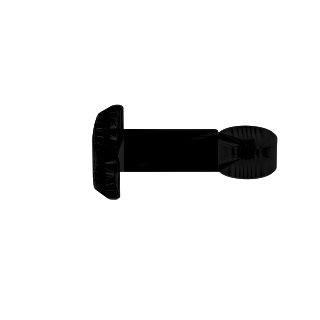
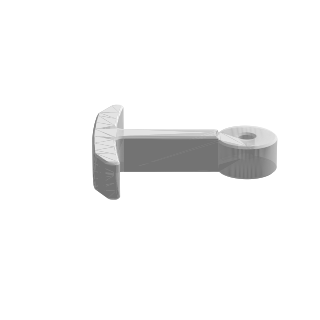
Part-detail fixes: modal scroll, support UI, OnShape links, hammer render
- Modal: pin the 3D viewer and give the detail pane its own scroll region
  (the canvas owns wheel=zoom, which was swallowing the modal's scroll).
  Adds a `bodyScroll` prop to Modal; trims StlViewer to 48vh.
- Support UI: only show the include/exclude toggle (and count support in
  the totals) for parts that intentionally opt into support in the manifest.
  Parts the slicer auto-forces support on no longer show it or factor it in.
  New `support_intentional` flag emitted by the generator.
- OnShape: link the two rib variants, the upper fixed section, and its big
  spacer to the pinned OnShape version. normalize_versions now carries a
  part-level onshape_version onto single-version parts.
- Re-render limit-switch-hammer thumbnail (was stale/black; role resolves to
  ivory-white).

Changed region(s): [[0.2812, 0.3125, 0.875, 0.625]]

diff --git a/src/routes/+page.svelte b/src/routes/+page.svelte
@@ -45,8 +45,11 @@
 	const defaultRoleColors = () => Object.fromEntries(COLOR_ROLES.map((r) => [r.id, r.default]));
 	const defaultSelected = () =>
 		Object.fromEntries(PARTS.map((p) => [p.id, !('bins' in p.quantities)]));
+	// only parts that *opt into* support (support_intentional) expose the toggle; they
+	// default to counting their support. Parts the slicer auto-forced support on are
+	// left out entirely — no toggle, no support in the totals.
 	const defaultInclSupport = () =>
-		Object.fromEntries(PARTS.filter((p) => p.support_grams > 0).map((p) => [p.id, p.id === 'stator']));
+		Object.fromEntries(PARTS.filter((p) => p.support_intentional).map((p) => [p.id, true]));
 
 	// per-layer size list is the shared source of truth (also used by the framing tab)
 	const funnelSizes = $derived(layerStore.sizes);
@@ -70,6 +73,8 @@
 	}
 	// include each part's support material in totals — default on for the stator only
 	let inclSupport = $state<Record<string, boolean>>(defaultInclSupport());
+	// support counts only for parts that intentionally opt into it, never auto-forced ones
+	const supportOn = (id: string): boolean => !!partsById.get(id)?.support_intentional && !!inclSupport[id];
 
 	// ---- persistence: load saved config at boot, save on change ----------------
 	let configLoaded = $state(false);
@@ -137,7 +142,7 @@
 	}
 
 	const buy = $derived(
-		buyList(layers, roleColors, isIncluded, (id) => !!inclSupport[id], variantCount, surplus)
+		buyList(layers, roleColors, isIncluded, supportOn, variantCount, surplus)
 	);
 
 	// theoretical total print time: every included part printed alone, sequentially,
@@ -158,7 +163,7 @@
 			const selectedGrams = parts
 				.filter((p) => isIncluded(p.id))
 				.reduce(
-					(sum, p) => sum + effectiveGrams(p, !!inclSupport[p.id]) * displayCount(p, s.id, layers, variantCount),
+					(sum, p) => sum + effectiveGrams(p, supportOn(p.id)) * displayCount(p, s.id, layers, variantCount),
 					0
 				);
 			return { section: s, parts, mult, selectedGrams };
@@ -337,7 +342,7 @@
 	{#snippet partRow(p: Part, sectionId: string, mult: number, indent: boolean)}
 		{@const n = displayCount(p, sectionId, layers, variantCount)}
 		{@const sw = partSwatches(p, sectionId, roleColors)}
-		{@const eff = effectiveGrams(p, !!inclSupport[p.id])}
+		{@const eff = effectiveGrams(p, supportOn(p.id))}
 		{@const os = partOnshape(p)}
 		<!-- svelte-ignore a11y_no_noninteractive_element_interactions a11y_click_events_have_key_events -->
 		<tr class="group/row cursor-pointer border-b border-border align-middle transition-colors last:border-b-0 hover:bg-[var(--color-bg)]" onclick={(e) => rowClickToOpen(e, p)} title="View {p.name} details">
@@ -363,7 +368,7 @@
 				<span class="flex flex-wrap items-center gap-2 font-medium text-text">
 					{p.name}
 					{#if p.optional}<Badge variant="warning">Optional</Badge>{/if}
-					{#if p.support_used}<Badge variant="info" title="Sliced with support material — included in this part's grams">Supports</Badge>{/if}
+					{#if p.support_intentional}<Badge variant="info" title="Printed with support material — included in this part's grams">Supports</Badge>{/if}
 						{#if platesForPart(p.id).length}<button type="button" class="inline-flex items-center gap-0.5 border border-border px-1 text-xs text-text-muted hover:border-primary hover:text-primary" onclick={() => openPlatesModal(p.id)} title="Show plates with this part"><Layers3 size={11} /> {platesForPart(p.id).length} plate{platesForPart(p.id).length === 1 ? '' : 's'}</button>{/if}{#if os.version}<a href={os.version} target="_blank" rel="noopener" class="inline-flex items-center gap-0.5 border border-border px-1 text-xs text-text-muted hover:border-primary hover:text-primary" title="Open the exact OnShape version this STL came from">OnShape <ExternalLink size={11} /></a>{/if}{#if p.info}<Popover width="w-64" label="About {p.name}" text={p.info} />{/if}{#if p.suspicious}<Popover width="w-72" label="Why {p.name} is flagged">{#snippet trigger({ toggle, open })}<Badge as="button" variant="warning" onclick={toggle} aria-expanded={open}><AlertTriangle size={11} /> Suspect</Badge>{/snippet}<b class="text-text">Subject to change.</b> This part may still change or have an issue. Unless it's critical, hold off printing it until this warning clears.{#if p.suspicious_note}<span class="mt-2 block border-t border-border pt-2 text-text">{p.suspicious_note}</span>{/if}</Popover>{/if}{#if p.low_tolerance}<Popover width="w-72" label="Fit notes for {p.name}">{#snippet trigger({ toggle, open })}<Badge as="button" variant="warning" onclick={toggle} aria-expanded={open}><AlertTriangle size={11} /> Tight fit</Badge>{/snippet}<b class="text-text">Low tolerance.</b> This part has little room for dimensional error, so a test print is worth doing before you commit to the full set.{#if p.low_tolerance_note}<span class="mt-2 block border-t border-border pt-2 text-text">{p.low_tolerance_note}</span>{/if}</Popover>{/if}{#if p.attributes?.length}{#each p.attributes as a}<span class="border border-border bg-[var(--color-bg)] px-1 text-xs text-text-muted" title={a.label}>{a.label}: <span class="text-text">{a.value}</span></span>{/each}{/if}{#if p.versions && p.versions.length > 1}<Popover width="w-80" label="Version history for {p.name}">{#snippet trigger({ toggle, open })}<button type="button" onclick={toggle} aria-expanded={open} class="inline-flex items-center gap-0.5 border border-border px-1 text-xs text-text-muted hover:border-primary hover:text-primary" title="Version history"><History size={11} /> v{p.version} · {p.versions?.length ?? 0} versions</button>{/snippet}<b class="text-text">Version history</b><ul class="mt-1 space-y-2">{#each [...(p.versions ?? [])].reverse() as v}<li class="border-t border-border pt-2 first:border-t-0 first:pt-0"><div class="flex items-center gap-1.5 text-text"><b>v{v.version}</b><span class="text-text-muted">· {fmtDate(v.date)}</span>{#if commitUrl(v.commit)}<a href={commitUrl(v.commit)} target="_blank" rel="noopener" class="ml-auto inline-flex items-center gap-0.5 text-primary hover:text-primary-hover">{v.commit} <ExternalLink size={10} /></a>{:else}<span class="ml-auto italic text-text-muted/70">uncommitted</span>{/if}</div><div class="mt-0.5">{v.message}</div>{#if v.onshape_version}<div class="mt-1"><a href={v.onshape_version} target="_blank" rel="noopener" class="inline-flex items-center gap-0.5 text-primary hover:text-primary-hover">OnShape <ExternalLink size={10} /></a></div>{/if}</li>{/each}</ul></Popover>{/if}
 				</span>
 				<span class="flex flex-wrap items-center gap-1.5 text-xs text-text-muted">
@@ -376,7 +381,7 @@
 					· {duration(p.print_seconds)}
 					{#if p.updated_at}<span title="Part last updated {fmtDate(p.updated_at)}">· updated {fmtDate(p.updated_at)}</span>{/if}
 				</span>
-				{#if p.support_grams > 0}
+				{#if p.support_intentional}
 					<label class="mt-0.5 flex w-fit cursor-pointer items-center gap-1.5 text-xs text-text-muted">
 						<input class="setup-toggle h-3.5 w-3.5" type="checkbox" bind:checked={inclSupport[p.id]} />
 						total {p.grams.toFixed(0)} g · support {p.support_grams.toFixed(0)} g
@@ -555,7 +560,7 @@
 	</footer>
 </div>
 
-<Modal bind:open={viewerOpen} title={viewerPart?.name}>
+<Modal bind:open={viewerOpen} title={viewerPart?.name} bodyScroll={false}>
 	{#if viewerPart}
 		{@const vers = [...(viewerPart.versions ?? [])].reverse()}
 		{@const active = viewerVersion ?? viewerPart.versions?.[viewerPart.versions.length - 1] ?? null}
@@ -564,9 +569,13 @@
 		{@const os = partOnshape(viewerPart)}
 		{@const pid = viewerPart.id}
 		{@const plates = platesForPart(pid)}
-		{#key activeStl}
-			<StlViewer url={activeStl} color={getBambuColor(viewerColorId).hex} />
-		{/key}
+		<div class="shrink-0">
+			{#key activeStl}
+				<StlViewer url={activeStl} color={getBambuColor(viewerColorId).hex} />
+			{/key}
+		</div>
+		<!-- details scroll independently of the pinned 3D viewer (which owns wheel = zoom) -->
+		<div class="min-h-0 flex-1 overflow-y-auto">
 		<div class="grid gap-4 px-4 py-3 sm:grid-cols-[1fr_auto]">
 			<div class="min-w-0 space-y-2 text-sm">
 				{#if viewerPart.description}<p class="text-text-muted">{viewerPart.description}</p>{/if}
@@ -642,6 +651,7 @@
 				{/if}
 			</div>
 		{/if}
+		</div>
 	{/if}
 </Modal>
 

diff --git a/src/lib/components/Modal.svelte b/src/lib/components/Modal.svelte
@@ -5,8 +5,9 @@
 	let {
 		open = $bindable(false),
 		title,
+		bodyScroll = true,
 		children
-	}: { open?: boolean; title?: string; children: Snippet } = $props();
+	}: { open?: boolean; title?: string; bodyScroll?: boolean; children: Snippet } = $props();
 
 	function onKey(e: KeyboardEvent) {
 		if (e.key === 'Escape') open = false;
@@ -40,7 +41,11 @@
 					<X size={16} />
 				</button>
 			</div>
-			<div class="setup-card-body min-h-0 flex-1 overflow-auto">
+			<div
+				class="setup-card-body min-h-0 flex-1 {bodyScroll
+					? 'overflow-auto'
+					: 'flex flex-col overflow-hidden'}"
+			>
 				{@render children()}
 			</div>
 		</div>

diff --git a/src/lib/filament.ts b/src/lib/filament.ts
@@ -70,7 +70,8 @@ export type Part = {
 	attributes?: { label: string; value: string }[]; // variant characteristics shown in the app
 	grams: number; // total incl. any support
 	support_grams: number; // the support portion of `grams`
-	support_used: boolean;
+	support_used: boolean; // slicer used support to slice this (may be auto-forced)
+	support_intentional?: boolean; // the part *opts into* support in the manifest (vs. auto-forced)
 	print_seconds: number;
 	color: ColorSpec;
 	optional: boolean;

diff --git a/src/lib/components/StlViewer.svelte b/src/lib/components/StlViewer.svelte
@@ -95,7 +95,7 @@
 	});
 </script>
 
-<div class="relative h-[60vh] w-full bg-[var(--color-bg)]">
+<div class="relative h-[48vh] w-full bg-[var(--color-bg)]">
 	<div bind:this={host} class="h-full w-full"></div>
 	{#if status !== 'ready'}
 		<div class="absolute inset-0 flex items-center justify-center text-sm text-text-muted">

diff --git a/slicer/filament.py b/slicer/filament.py
@@ -100,8 +100,14 @@ def normalize_versions(part):
     if vs:
         return vs
     date = part.get("created_at", part.get("date_added", ""))
-    return [{"version": part.get("version", "1"), "date": date,
-             "message": "Initial version.", "commit": None}]
+    entry = {"version": part.get("version", "1"), "date": date,
+             "message": "Initial version.", "commit": None}
+    # a single-version part can still carry OnShape links at the part level
+    if part.get("onshape_version"):
+        entry["onshape_version"] = part["onshape_version"]
+    if part.get("onshape_doc"):
+        entry["onshape_doc"] = part["onshape_doc"]
+    return [entry]
 
 
 def git_show_bytes(commit, repo_rel):
@@ -495,6 +501,9 @@ def main():
             "grams": info["grams"],
             "support_grams": info.get("support_grams", 0.0),
             "support_used": info["support_used"],
+            # true only when the part *opts into* support in the manifest; the slicer
+            # may force support on other parts just to slice, but that isn't surfaced.
+            "support_intentional": bool(p.get("support", False)),
             "print_seconds": info["print_seconds"],
             "color": p.get("color", {"any": True}),
             "optional": p.get("optional", False),